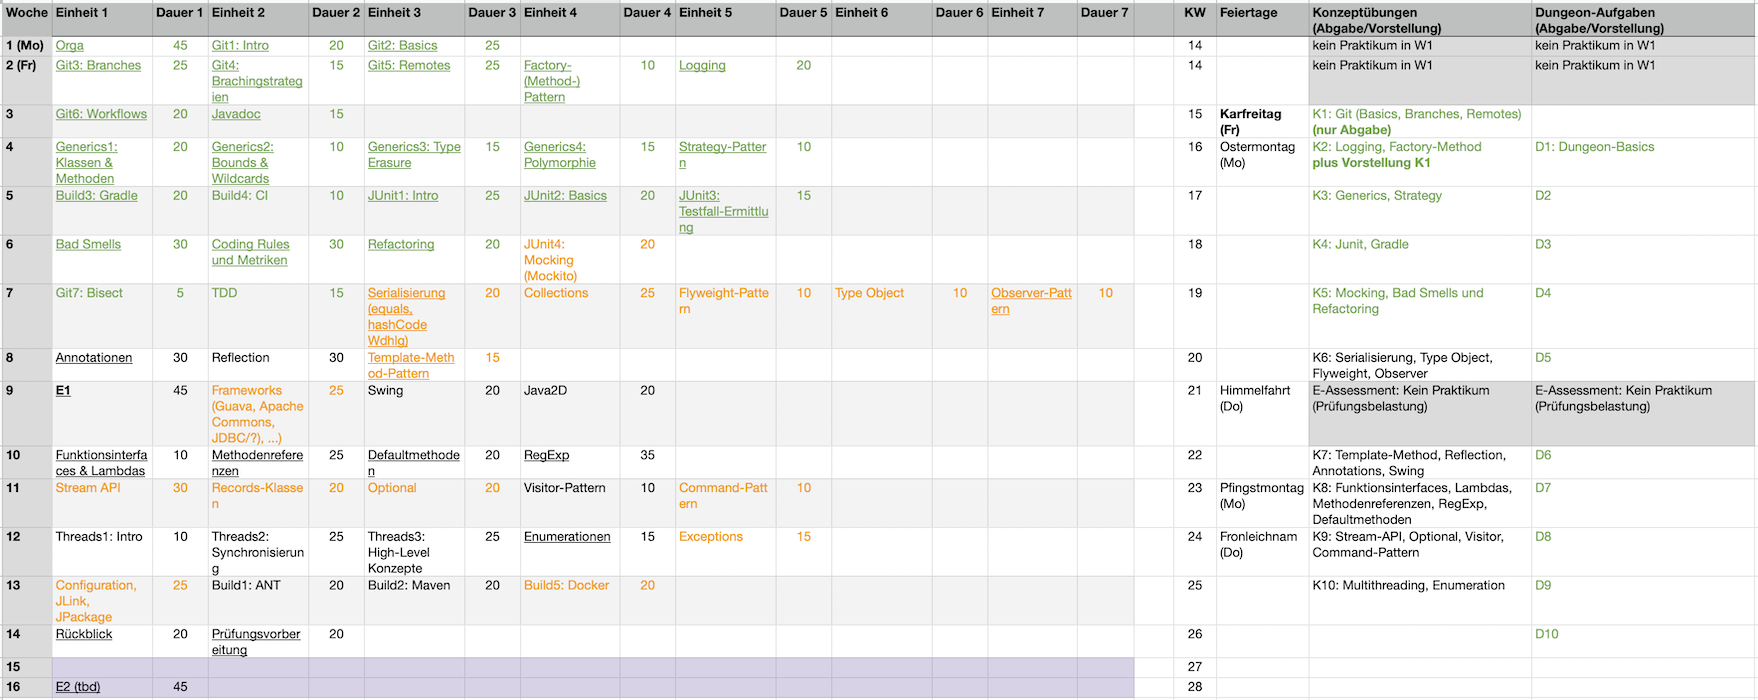
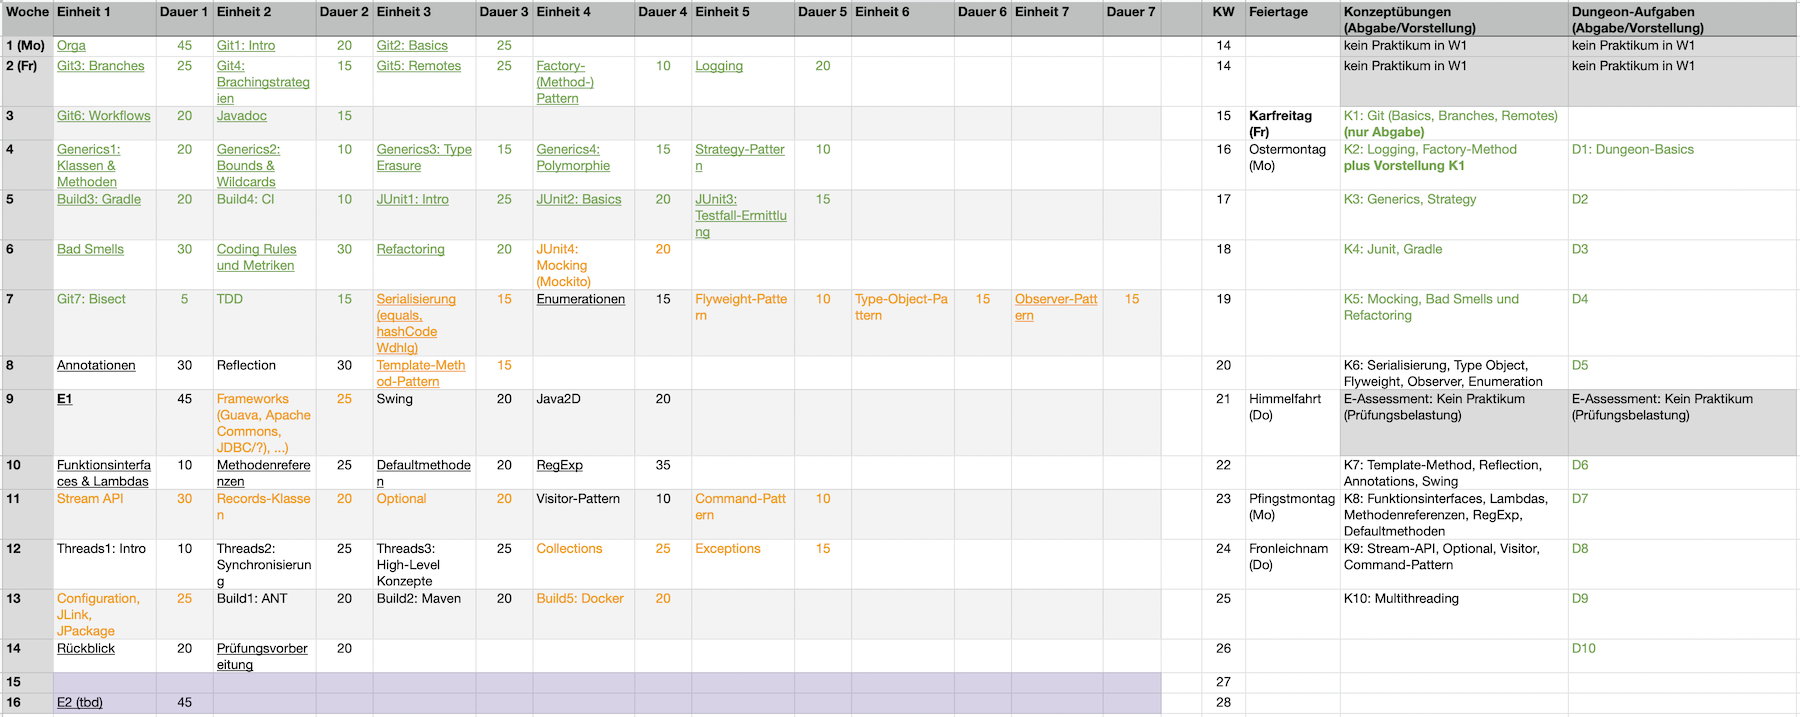
Update schedule: swap enum and collections (#435)

diff --git a/markdown/coding/debugging.md b/markdown/coding/debugging.md
@@ -34,6 +34,12 @@ fhmedia:
   - link: ""
     name: "VL "
 sketch: true
+
+hidden: true
+_build:
+  render: never
+  list: never
+  publishResources: false
 ---
 
 

diff --git a/markdown/database/jdbc.md b/markdown/database/jdbc.md
@@ -29,6 +29,12 @@ fhmedia:
   - link: ""
     name: "VL "
 sketch: true
+
+hidden: true
+_build:
+  render: never
+  list: never
+  publishResources: false
 ---
 
 

diff --git a/markdown/database/_index.md b/markdown/database/_index.md
@@ -2,6 +2,12 @@
 chapter: true
 title: "Database"
 weight: 11
+
+hidden: true
+_build:
+  render: never
+  list: never
+  publishResources: false
 ---
 
 

diff --git a/markdown/building/src/_index.md b/markdown/building/src/_index.md
@@ -1,0 +1,9 @@
+---
+title: "Code"
+
+hidden: true
+_build:
+  render: never
+  list: never
+  publishResources: false
+---

diff --git a/markdown/coding/src/_index.md b/markdown/coding/src/_index.md
@@ -1,0 +1,9 @@
+---
+title: "Code"
+
+hidden: true
+_build:
+  render: never
+  list: never
+  publishResources: false
+---

diff --git a/markdown/database/src/_index.md b/markdown/database/src/_index.md
@@ -1,0 +1,9 @@
+---
+title: "Code"
+
+hidden: true
+_build:
+  render: never
+  list: never
+  publishResources: false
+---

diff --git a/markdown/frameworks/src/_index.md b/markdown/frameworks/src/_index.md
@@ -1,0 +1,9 @@
+---
+title: "Code"
+
+hidden: true
+_build:
+  render: never
+  list: never
+  publishResources: false
+---

diff --git a/markdown/generics/src/_index.md b/markdown/generics/src/_index.md
@@ -1,0 +1,9 @@
+---
+title: "Code"
+
+hidden: true
+_build:
+  render: never
+  list: never
+  publishResources: false
+---

diff --git a/markdown/gui/src/_index.md b/markdown/gui/src/_index.md
@@ -1,0 +1,9 @@
+---
+title: "Code"
+
+hidden: true
+_build:
+  render: never
+  list: never
+  publishResources: false
+---

diff --git a/markdown/java-jvm/src/_index.md b/markdown/java-jvm/src/_index.md
@@ -1,0 +1,9 @@
+---
+title: "Code"
+
+hidden: true
+_build:
+  render: never
+  list: never
+  publishResources: false
+---

diff --git a/markdown/modern-java/src/_index.md b/markdown/modern-java/src/_index.md
@@ -1,0 +1,9 @@
+---
+title: "Code"
+
+hidden: true
+_build:
+  render: never
+  list: never
+  publishResources: false
+---

diff --git a/markdown/pattern/src/_index.md b/markdown/pattern/src/_index.md
@@ -1,0 +1,9 @@
+---
+title: "Code"
+
+hidden: true
+_build:
+  render: never
+  list: never
+  publishResources: false
+---
